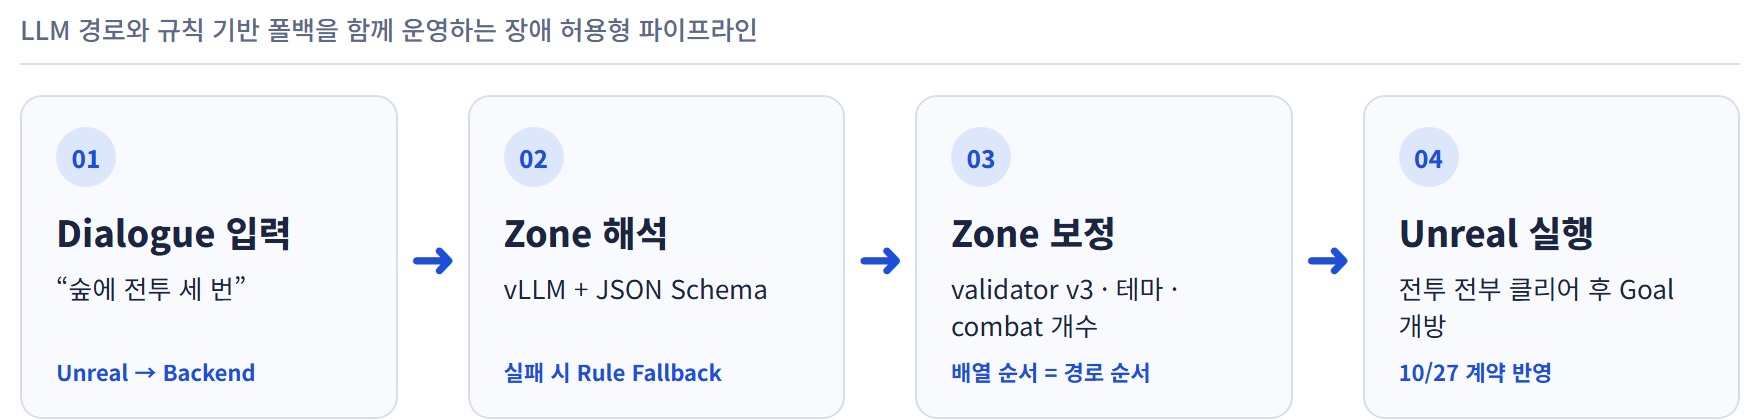
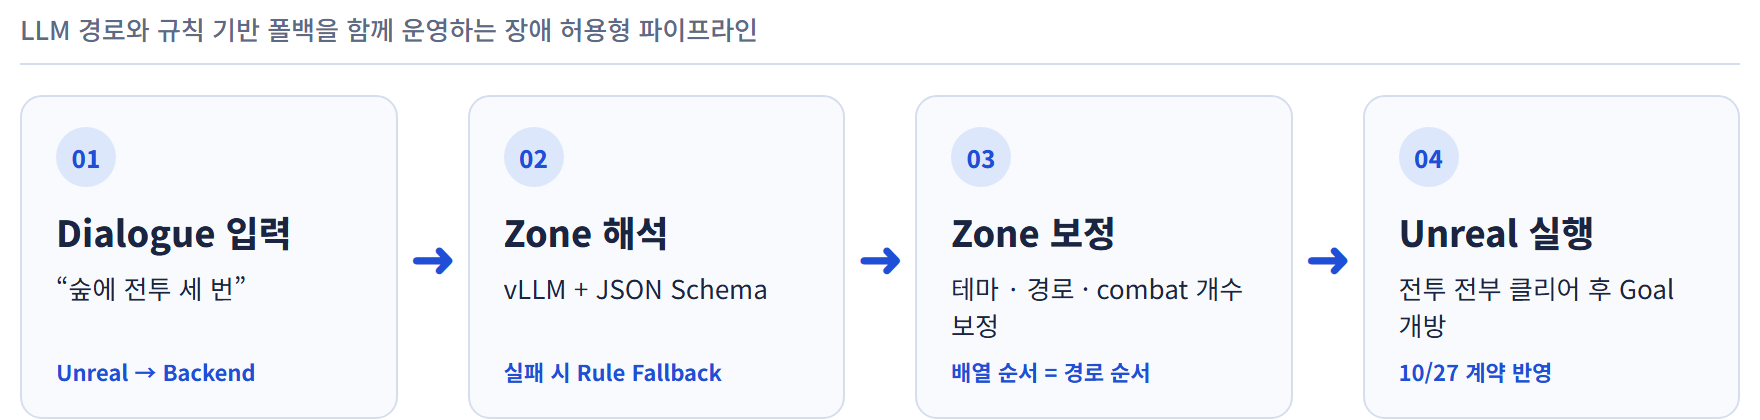
docs: 슬라이드 도식에서 v3 문구 제거

Changed region(s): [[0.5312, 0.65, 0.7188, 0.7119], [0.5312, 0.7429, 0.625, 0.8048]]

diff --git a/docs/slides/slide09.html b/docs/slides/slide09.html
@@ -30,7 +30,7 @@
     <div class="arrow">➜</div>
     <div class="card"><div class="num">02</div><h3>Zone 해석</h3><div class="d">vLLM + JSON Schema</div><div class="t">실패 시 Rule Fallback</div></div>
     <div class="arrow">➜</div>
-    <div class="card"><div class="num">03</div><h3>Zone 보정</h3><div class="d">validator v3 · 테마 · combat 개수</div><div class="t">배열 순서 = 경로 순서</div></div>
+    <div class="card"><div class="num">03</div><h3>Zone 보정</h3><div class="d">테마 · 경로 · combat 개수 보정</div><div class="t">배열 순서 = 경로 순서</div></div>
     <div class="arrow">➜</div>
     <div class="card"><div class="num">04</div><h3>Unreal 실행</h3><div class="d">전투 전부 클리어 후 Goal 개방</div><div class="t">10/27 계약 반영</div></div>
   </div>

diff --git a/docs/slides/slide10.html b/docs/slides/slide10.html
@@ -42,7 +42,7 @@
       <span class="pill b">자기교차 · 겹침 · 근접</span>
     </div>
     <div class="panel after">
-      <div class="tag a">AFTER</div><h3>validator v3: 정합성이 보장된 레이아웃</h3>
+      <div class="tag a">AFTER</div><h3>보정 후: 정합성이 보장된 레이아웃</h3>
       <svg viewBox="0 0 800 320">
         <polyline points="70,270 220,230 360,150 520,120 720,60" fill="none" stroke="#1f4fd6" stroke-width="12" stroke-linejoin="round" stroke-linecap="round"/>
         <!-- evenly spaced combat circles along path, increasing difficulty -->
